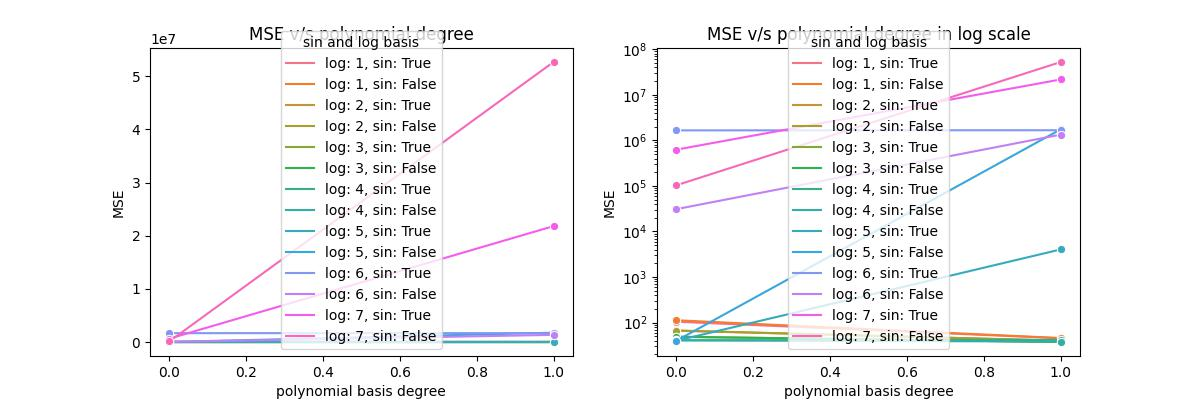
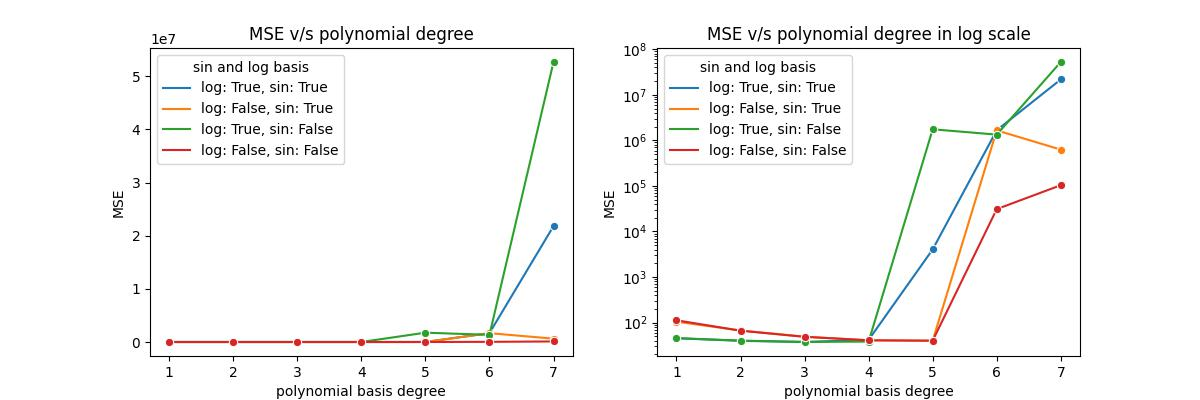
Fix basis inversion issue

diff --git a/utils.py b/utils.py
@@ -93,8 +93,8 @@ def visualize_cross_validation_mses(cv_results):
     """ Generates subplots with mse and its log form across different conditions"""
 
     df_results = pd.DataFrame(cv_results,
-                              columns=["include log basis", "include sin basis",
-                                       "polynomial basis degree", "MSE"])
+                              columns=["polynomial basis degree",  "include sin basis",
+                                       "include log basis", "MSE"])
     df_results["log10 MSE"] = np.log10(df_results["MSE"])
     df_results["sin and log basis"] = df_results.apply(
         lambda x: f"log: {x['include log basis']}, sin: {x['include sin basis']}", axis=1)
